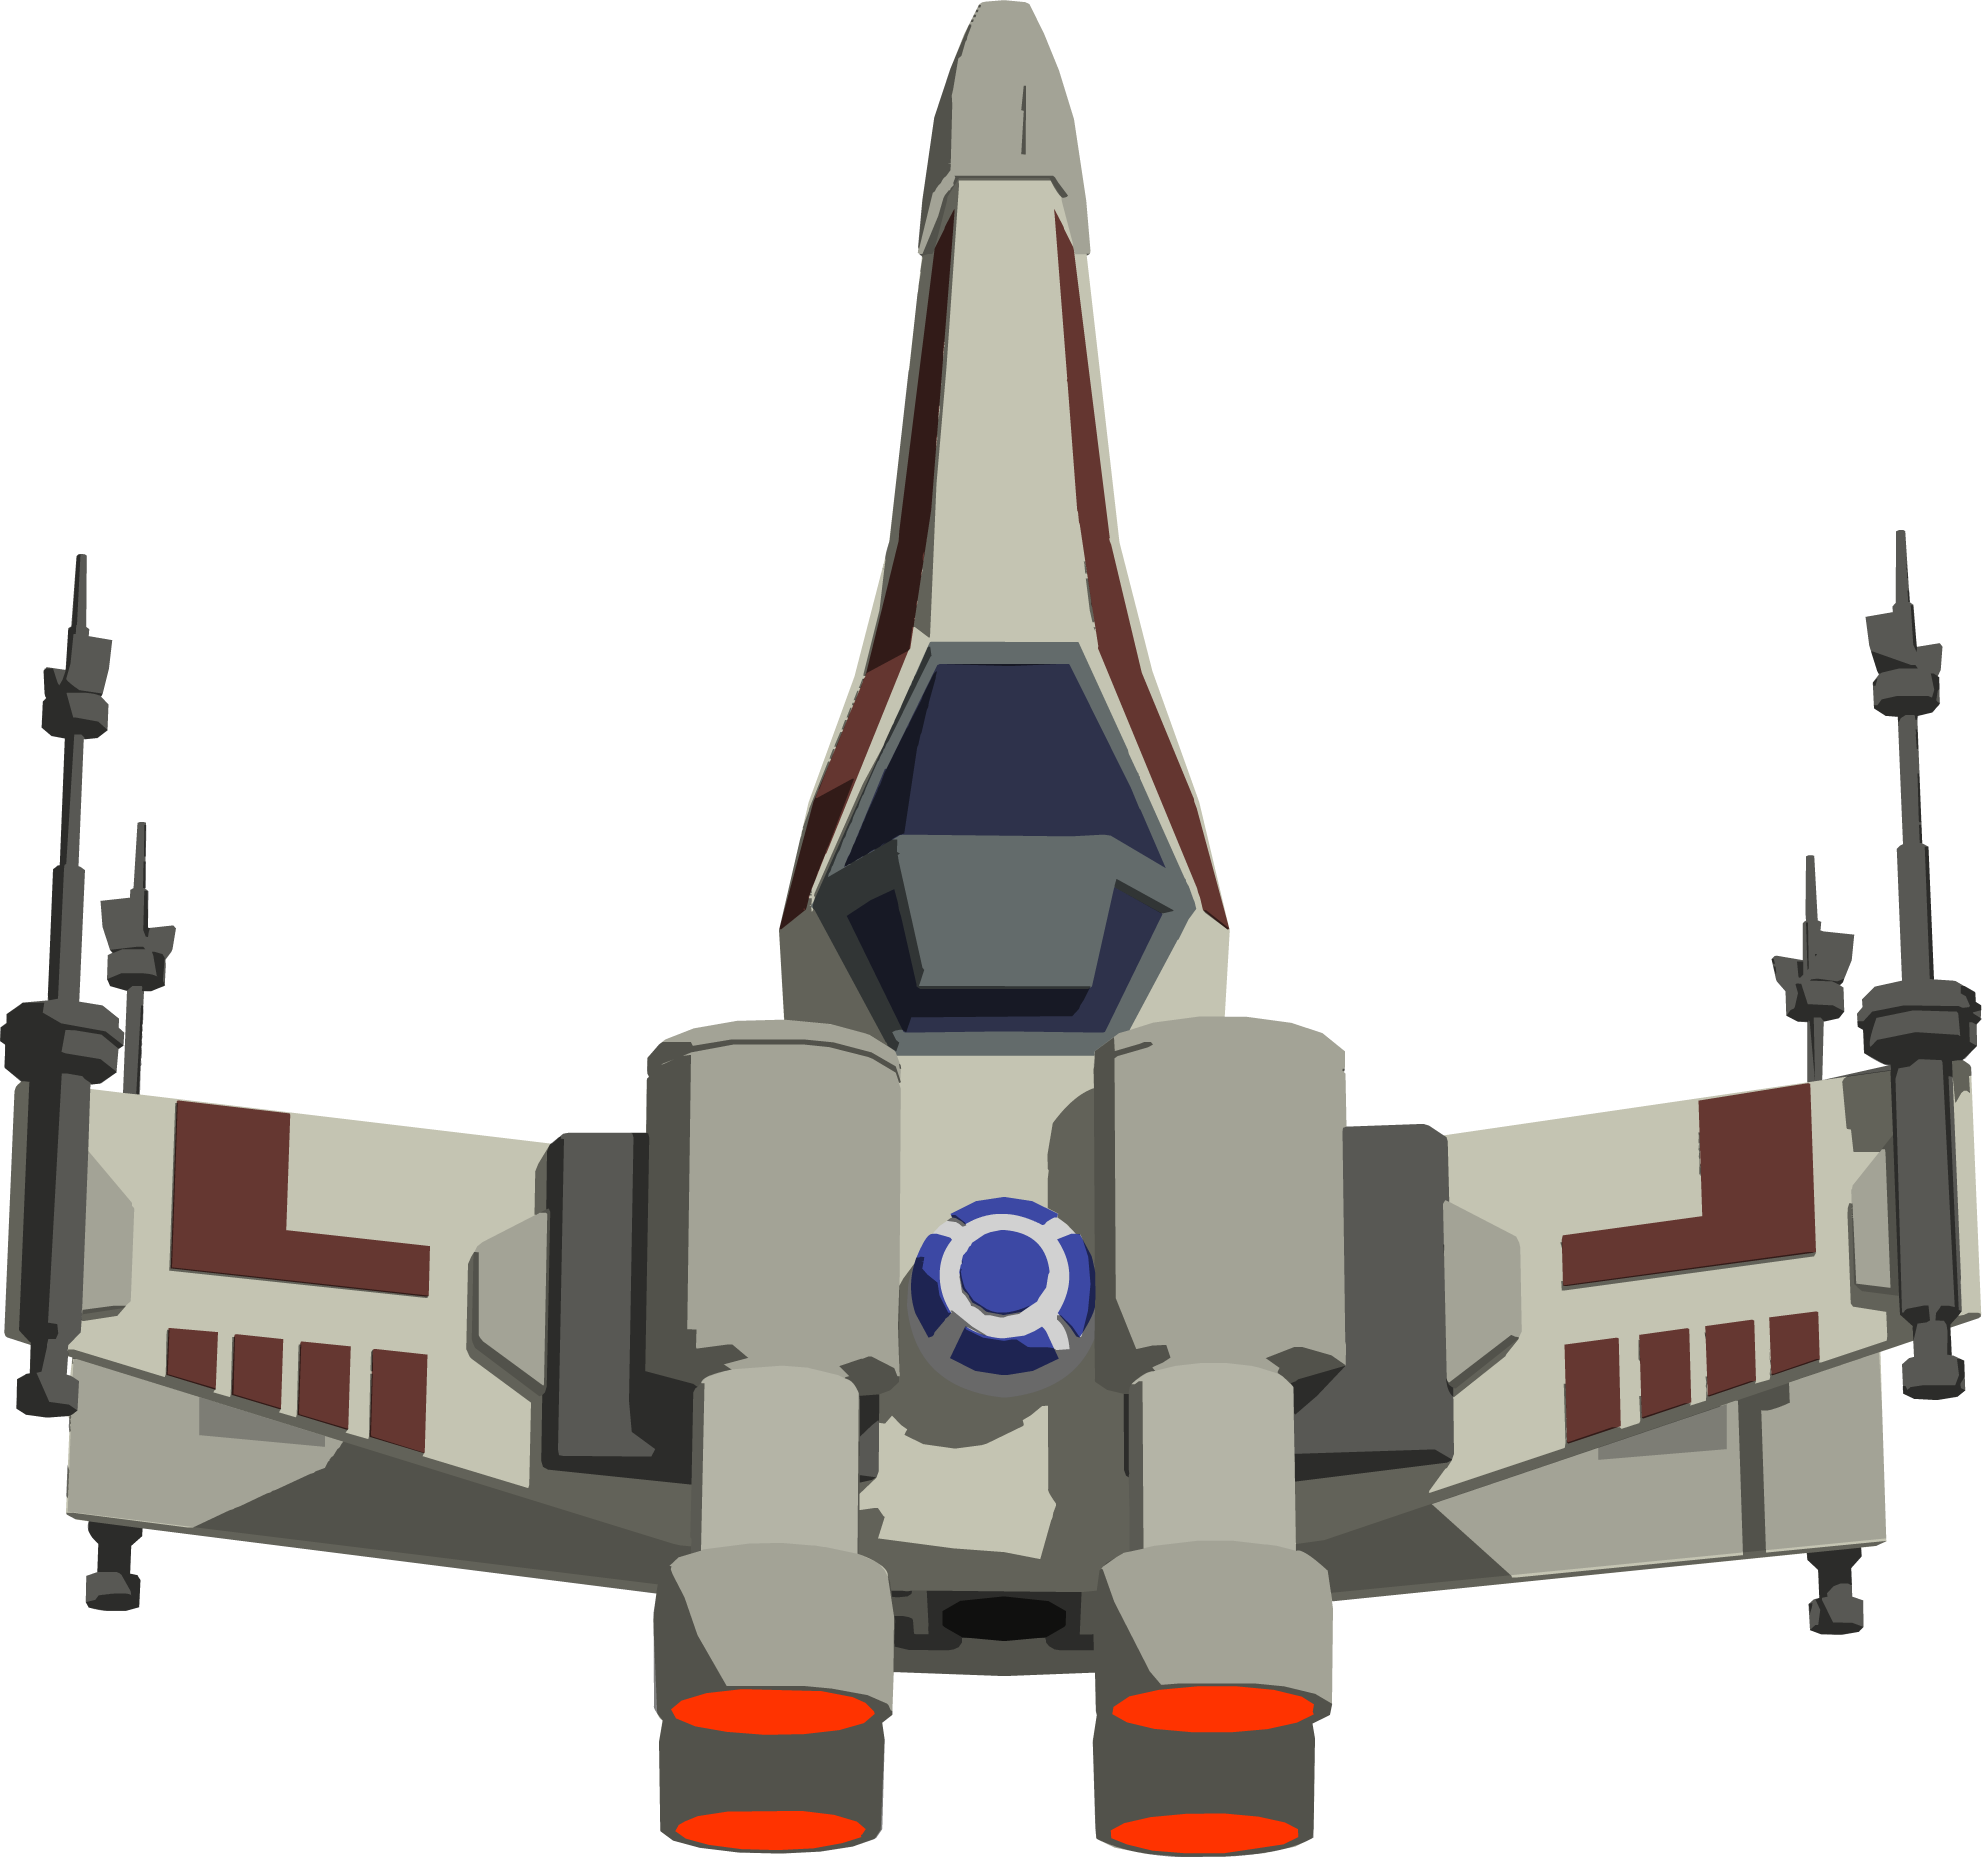
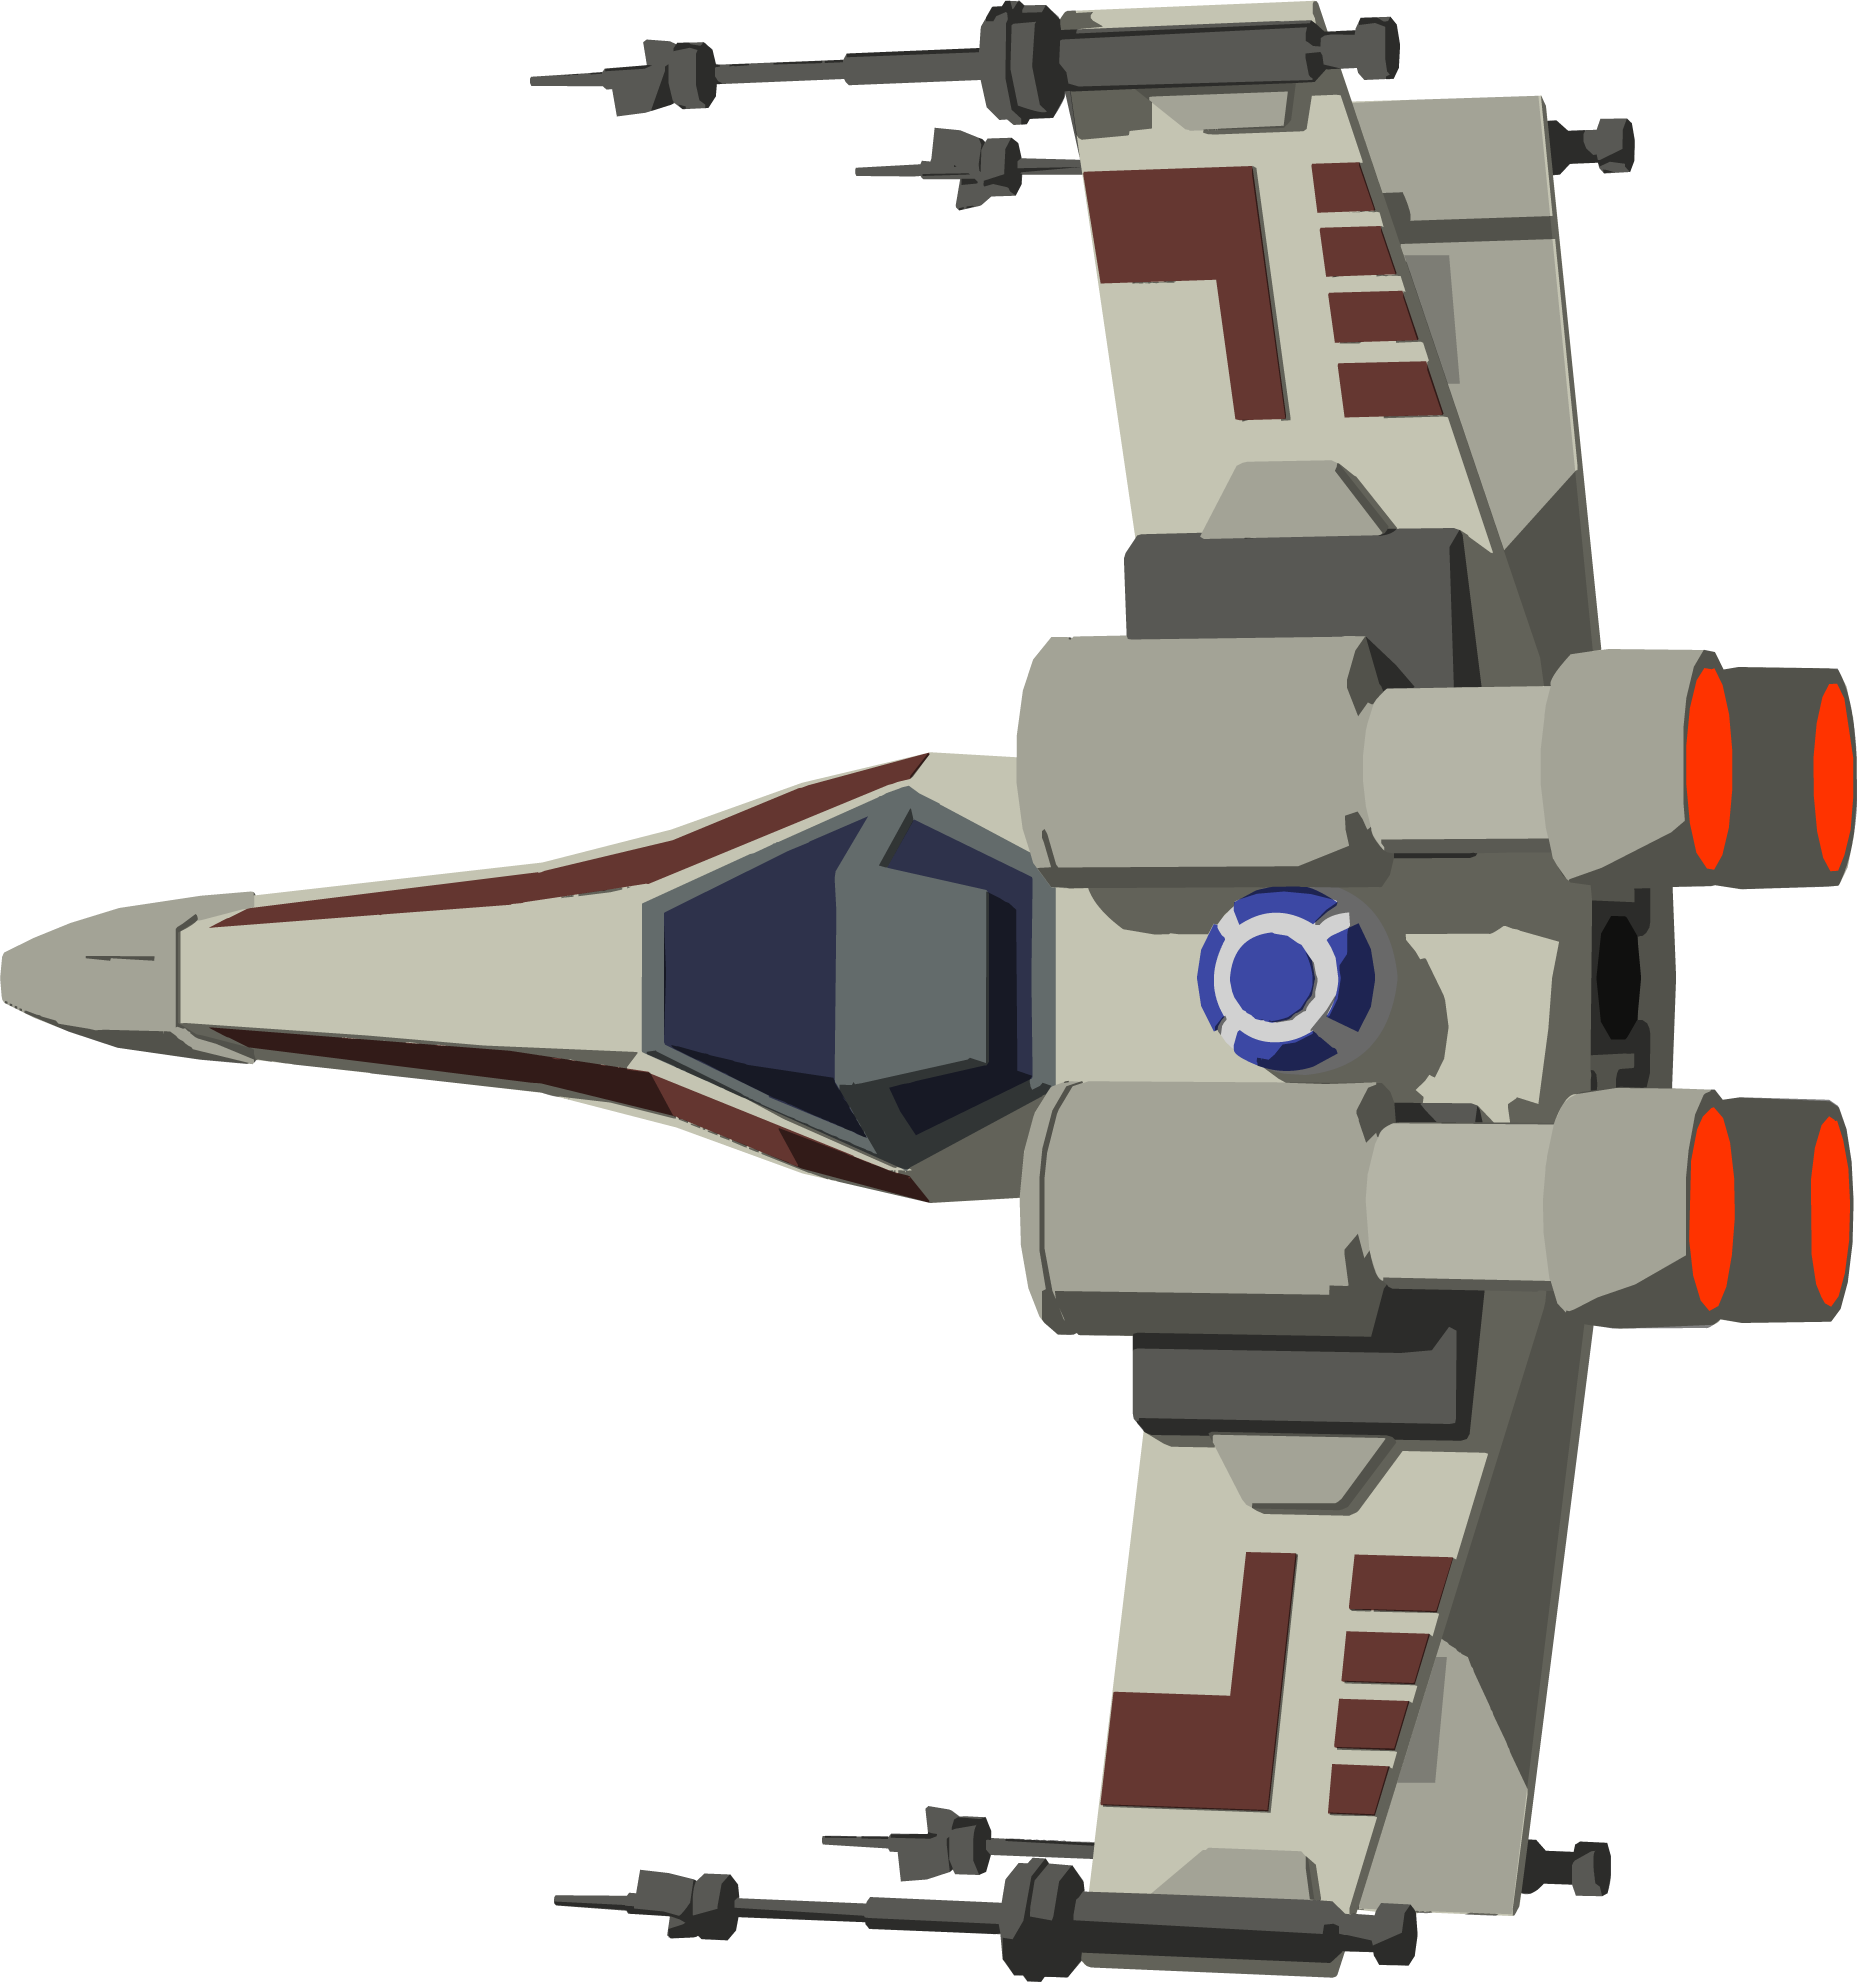
Fix vaisseau rotation

diff --git a/Vaisseau.js b/Vaisseau.js
@@ -95,7 +95,14 @@ class Vaisseau {
             }
 
             if (swmode == true) {
-                ctx.drawImage(xwing, this.x - 30, this.y - 30, 60, 60);
+                ctx.save();
+                ctx.translate(this.x, this.y);
+                ctx.rotate(Vaisseau1.angle);
+                //ctx.rotate(Math.PI / -0.4455);
+                ctx.translate(-30,-30);
+                ctx.drawImage(xwing, 0, 0, 60, 60);
+                ctx.restore();
+
             }
 
 
@@ -116,6 +123,7 @@ class Vaisseau {
                 ctx.stroke(); // outline the shape that's been described
                 ctx.fill();
                 ctx.restore();
+            }
                 if (this.x < 0)
                     this.x = width;
                 if (this.y < 0)
@@ -124,7 +132,7 @@ class Vaisseau {
                     this.x = 0;
                 if (this.y > height)
                     this.y = 0;
-            }
+            
 
             this.drawBullets(ctx);
 

diff --git a/star.js b/star.js
@@ -52,7 +52,7 @@ function StarField(canvas, numStars, colours, twinkleSpeed) {
             //
             var x = Math.random() * this.w | 0,
                 y = Math.random() * this.h | 0,
-                r = Math.round((Math.random()) * 100) * 0.01,
+                r = Math.round((Math.random()) * 100) * 0.03,
                 b = this.randomBetween(80, 100) * 0.01,
                 c = this.colours[this.randomBetween(0, this.numColours)];
             //
@@ -103,5 +103,5 @@ function StarField(canvas, numStars, colours, twinkleSpeed) {
 
 };
 
-var sf = new StarField(document.getElementById("myCanvas"), 600, ["#f8f7ff", "#9bb0ff", "#ffcc6f", "#cad7ff"], 20);
+var sf = new StarField(document.getElementById("myCanvas"), 700, ["#f8f7ff", "#9bb0ff", "#ffcc6f", "#cad7ff"], 10);
     sf.create();
